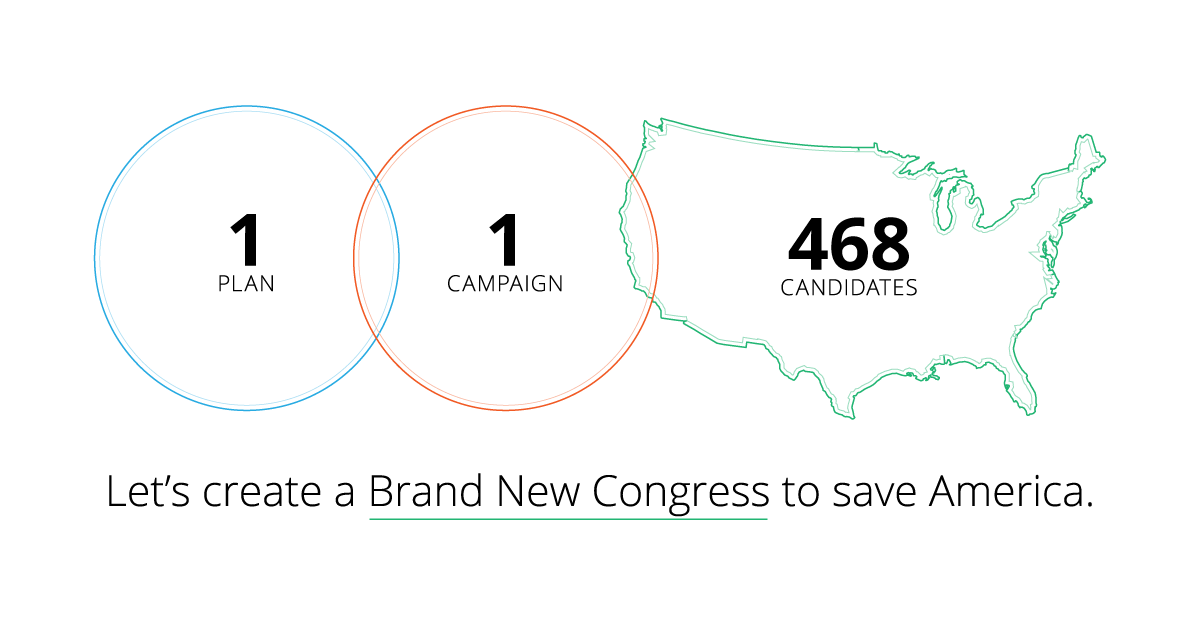
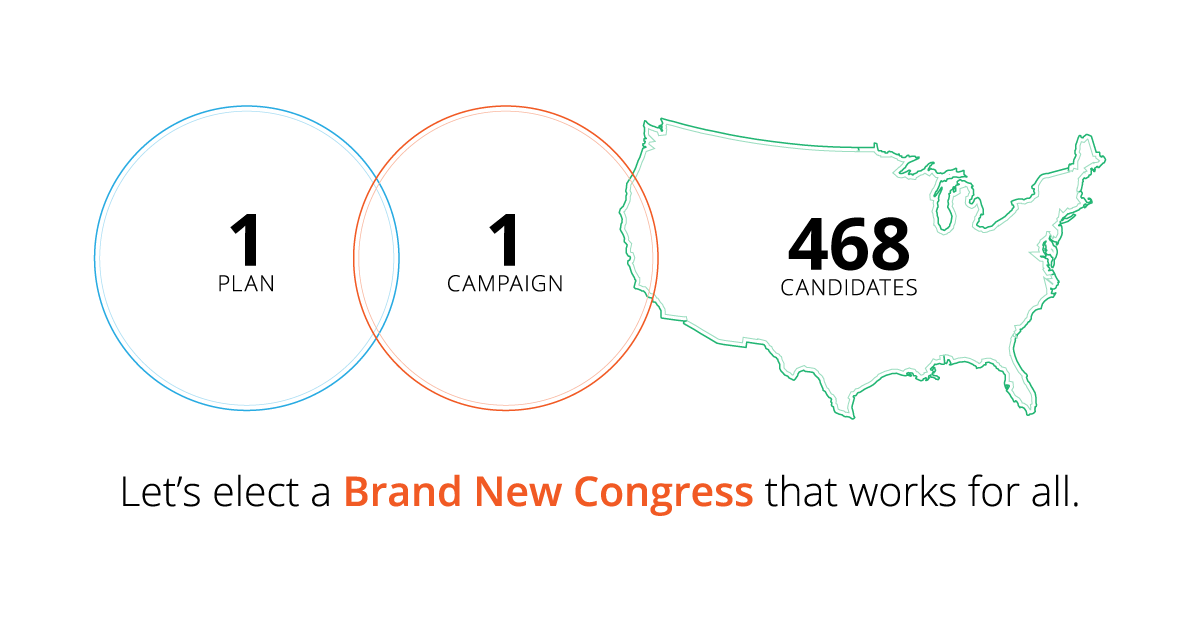
fixed header image for medium sized devices

Changed region(s): [[0.0925, 0.7576, 0.925, 0.8485]]

diff --git a/index.html b/index.html
@@ -36,21 +36,11 @@
 
 
  <!-- Block 1 -->
-<div class="block p-y-0 p-b-md block-intro text-center">
-
-<!-- Block 1 Content -->
-  <div class="block-1-content p-t-0 text-center">
-      <div class="container feature-img m-t-lg text-center">
-                <!--feature well-->
-          </div>
-      <h1 class="p-y">Let's elect a <span class="embolden">Brand New Congress</span> that works for all  people.</h1>
-
-<!--
-    <div class="text-center">
-        <span class="icon icon-chevron-thin-down icon-lg"></span>
-    </div>
--->
-</div>
+<div class="block m-y-0 p-y-0 p-x-0 p-t-md text-center">
+      <div class="container-fluid feature-img">
+                    <img src="assets/img/hdr-circles-map-988x316@2x.gif" alt="Let's elect a Brand New Congress that works for all." />
+      </div>
+      <h1 class="p-y">Let's elect a <span class="embolden">Brand New Congress</span> that works for all.</h1>
 </div>
 <!-- End Block 1 -->
 
@@ -88,11 +78,11 @@
       </div>
 
       <div class="col-md-6 p-x p-t-md">
-          <p><h4>America needs an <span class="heavy">honest, accountable Congress</span> to enact <a href="https://berniesanders.com/issues/">Bernie's program</a>. But trying to win each Congressional seat one-by-one is impossible. So let's run one national campaign to replace Congress all at once that whips up the same enthusiasm, volunteerism and money as Bernie's presidential campaign.</h4>
-          </p>
-          <p>
+          <h4>America needs an <span class="heavy">honest, accountable Congress</span> to enact <a href="https://berniesanders.com/issues/">Bernie's program</a>. But trying to win each Congressional seat one-by-one is impossible. So let's run one national campaign to replace Congress all at once that whips up the same enthusiasm, volunteerism and money as Bernie's presidential campaign.</h4>
+          
+          
           <h4>We're building on the tools, tactics and networks that we developed together on Bernie's campaign. But to pull this off, the volunteer movement will have to wield more power and resources than on any campaign before. This means volunteers on the ground will run their own offices and voter contact operations, and will have access to all necessary tools and materials from the start. Get ready for the <span class="heavy">most beautiful campaign</span> ever.</h4>
-          </p>
+          
       </div>
       </div>
     </div>

diff --git a/assets/css/application-minimal.css b/assets/css/application-minimal.css
@@ -5,15 +5,6 @@
  */
 
 
-
-
-
-
-
-/* block 1 */
-.block-intro {
-  background-color: #fff;
-}
 h1{
    font-size: 32px;
     font-weight: 300;
@@ -62,16 +53,14 @@ span.heavy{
 div.form-block{
     background-color: #fff;
 }
-/*DESKTOP HEADER IMG*/
-.feature-img{
-    background-image: url(../img/hdr-circles-map-988x316@2x.gif);
-    background-size: cover;
-    background-repeat: no-repeat;
-    display: block;
-    width: 988px;
-    height: 316px;
+
+/*HEADER IMG*/
+.feature-img img{
+    max-width:100%;
+    max-height:316px;
 }
 
+/*colorize the form fields*/
 input[type="text"], textarea {
     background-color: #eef9ef;
 
@@ -116,10 +105,13 @@ button.btn {
  .responsive {
     font-size: 70px !important;
   }
+/*
     .feature-img{
     width: 672px;
     height: 215px;
     }
+*/
+    
 }
 @media (max-width: 400px) {
   .responsive {
@@ -146,6 +138,8 @@ button.btn {
     font-size:14px;
   }
 /*    MOBILE HEADER IMG*/
+    
+/*
     .feature-img{
     background-image: url(../img/hdr-circles-map-mobile-300x96@2x.gif);
     background-size:cover;
@@ -155,6 +149,7 @@ button.btn {
     height: 96px;
     margin-top:130px !important;
   }
+*/
 
   h2{font-size:26px}
  }
